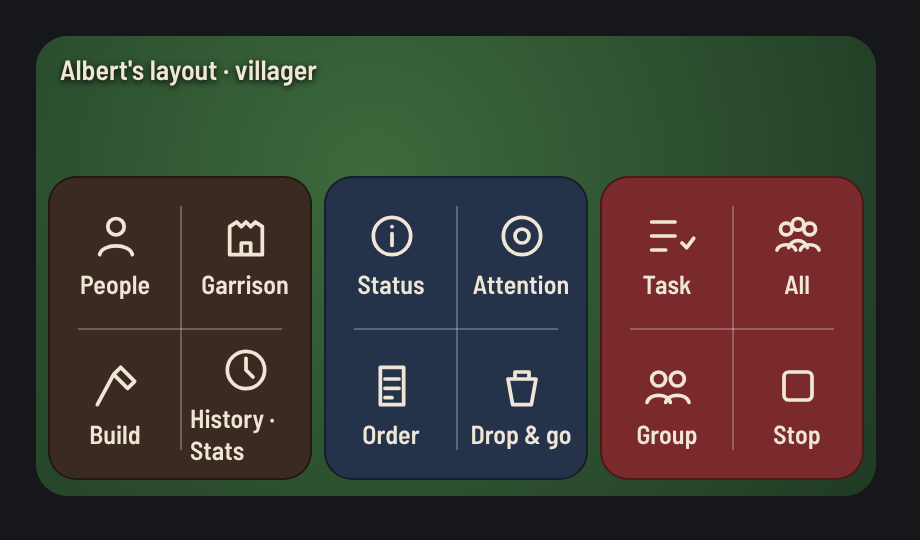
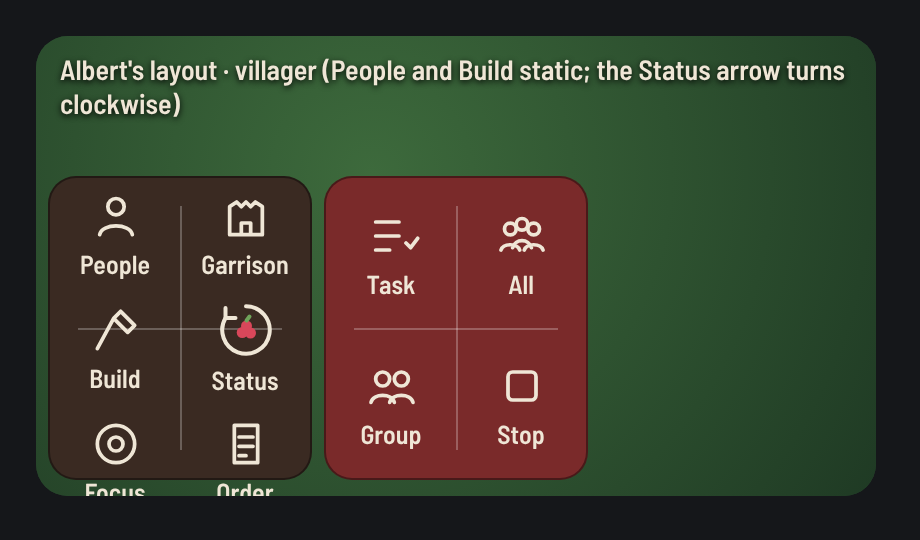
Mock: Albert's villager Controller, v3 (Focus, the status ring)
Claude-Session: https://claude.ai/code/session_017QywRJBcxaNk58v8RT3hvF

diff --git a/mockups/p2c/albert.html b/mockups/p2c/albert.html
@@ -17,4 +17,4 @@
 .info.wide{height:150px}.tabs{display:flex;gap:4px;margin-bottom:6px}.tabs em{font-style:normal;font:600 11px 'Barlow Semi Condensed';padding:2px 6px;border-radius:8px;border:1px solid rgba(255,255,255,.3)}.tabs em.on{border-color:#e6c25a;color:#ffe9a6}
 .seg{display:flex;flex-direction:column;justify-content:center;gap:10px;padding:8px}.sg{display:flex;border:1px solid rgba(255,255,255,.35);border-radius:10px;overflow:hidden}.sg span{flex:1;text-align:center;padding:9px 0;font:600 12px 'Barlow Semi Condensed'}.sg span+span{border-left:1px solid rgba(255,255,255,.25)}.sg span.lit{background:rgba(230,194,90,.25);color:#ffe9a6}
 .set .q:nth-child(3){} 
-.tbd{opacity:.4;border:1px dashed rgba(255,255,255,.4)} body{grid-template-columns:420px}</style></head><body><div class="ph" style="height:230px"><div class="cap">Albert's layout · villager</div><div class="map"></div><div class="ctl"><div class="pads"><div class="pad brown"><i class="v"></i><i class="h"></i><div class="q "><svg viewBox="0 0 24 24" width="28" height="28" fill="none" stroke="currentColor" stroke-width="1.6" stroke-linecap="round" stroke-linejoin="round"><circle cx="12" cy="8" r="3.5"/><path d="M5 20c1-5 13-5 14 0"/></svg><span>People</span></div><div class="q "><svg viewBox="0 0 24 24" width="28" height="28" fill="none" stroke="currentColor" stroke-width="1.6" stroke-linecap="round" stroke-linejoin="round"><path d="M5 20V8l3-2 2 2 2-2 2 2 2-2 3 2v12z M10 20v-5h4v5"/></svg><span>Garrison</span></div><div class="q "><svg viewBox="0 0 24 24" width="28" height="28" fill="none" stroke="currentColor" stroke-width="1.6" stroke-linecap="round" stroke-linejoin="round"><path d="M14 4l6 6-3 3-6-6z M11 7L4 20"/></svg><span>Build</span></div><div class="q "><svg viewBox="0 0 24 24" width="28" height="28" fill="none" stroke="currentColor" stroke-width="1.6" stroke-linecap="round" stroke-linejoin="round"><circle cx="12" cy="12" r="8"/><path d="M12 7v5l3 3"/></svg><span>History · Stats</span></div></div><div class="pad blue"><i class="v"></i><i class="h"></i><div class="q "><svg viewBox="0 0 24 24" width="28" height="28" fill="none" stroke="currentColor" stroke-width="1.6" stroke-linecap="round" stroke-linejoin="round"><circle cx="12" cy="12" r="8"/><path d="M12 11v5M12 8h.01"/></svg><span>Status</span></div><div class="q "><svg viewBox="0 0 24 24" width="28" height="28" fill="none" stroke="currentColor" stroke-width="1.6" stroke-linecap="round" stroke-linejoin="round"><circle cx="12" cy="12" r="8"/><circle cx="12" cy="12" r="3"/></svg><span>Attention</span></div><div class="q "><svg viewBox="0 0 24 24" width="28" height="28" fill="none" stroke="currentColor" stroke-width="1.6" stroke-linecap="round" stroke-linejoin="round"><path d="M7 4h10v16H7z M9 9h6M9 13h6M9 17h3"/></svg><span>Order</span></div><div class="q "><svg viewBox="0 0 24 24" width="28" height="28" fill="none" stroke="currentColor" stroke-width="1.6" stroke-linecap="round" stroke-linejoin="round"><path d="M6 9h12l-2 11H8z M9 9V6h6v3"/></svg><span>Drop &amp; go</span></div></div><div class="pad red"><i class="v"></i><i class="h"></i><div class="q "><svg viewBox="0 0 24 24" width="28" height="28" fill="none" stroke="currentColor" stroke-width="1.6" stroke-linecap="round" stroke-linejoin="round"><path d="M5 6h10M5 12h10M5 18h6M18 15l2 2 3-4"/></svg><span>Task</span></div><div class="q "><svg viewBox="0 0 24 24" width="28" height="28" fill="none" stroke="currentColor" stroke-width="1.6" stroke-linecap="round" stroke-linejoin="round"><circle cx="7" cy="9" r="2.5"/><circle cx="12" cy="7" r="2.5"/><circle cx="17" cy="9" r="2.5"/><path d="M3 18c1-3 7-3 8 0M8 17c1-4 7-4 8 0M13 18c1-3 7-3 8 0"/></svg><span>All</span></div><div class="q "><svg viewBox="0 0 24 24" width="28" height="28" fill="none" stroke="currentColor" stroke-width="1.6" stroke-linecap="round" stroke-linejoin="round"><circle cx="8" cy="9" r="3"/><circle cx="16" cy="9" r="3"/><path d="M3 19c1-4 9-4 10 0M11 19c1-4 9-4 10 0"/></svg><span>Group</span></div><div class="q "><svg viewBox="0 0 24 24" width="28" height="28" fill="none" stroke="currentColor" stroke-width="1.6" stroke-linecap="round" stroke-linejoin="round"><rect x="6" y="6" width="12" height="12" rx="2"/></svg><span>Stop</span></div></div></div></div></div></body></html>
+.tbd{opacity:.4;border:1px dashed rgba(255,255,255,.4)} body{grid-template-columns:420px}</style></head><body><div class="ph" style="height:230px"><div class="cap">Albert's layout · villager (People and Build static; the Status arrow turns clockwise)</div><div class="map"></div><div class="ctl"><div class="pads"><div class="pad brown"><i class="v"></i><i class="h"></i><div class="q "><svg viewBox="0 0 24 24" width="28" height="28" fill="none" stroke="currentColor" stroke-width="1.6" stroke-linecap="round" stroke-linejoin="round"><circle cx="12" cy="8" r="3.5"/><path d="M5 20c1-5 13-5 14 0"/></svg><span>People</span></div><div class="q "><svg viewBox="0 0 24 24" width="28" height="28" fill="none" stroke="currentColor" stroke-width="1.6" stroke-linecap="round" stroke-linejoin="round"><path d="M5 20V8l3-2 2 2 2-2 2 2 2-2 3 2v12z M10 20v-5h4v5"/></svg><span>Garrison</span></div><div class="q "><svg viewBox="0 0 24 24" width="28" height="28" fill="none" stroke="currentColor" stroke-width="1.6" stroke-linecap="round" stroke-linejoin="round"><path d="M14 4l6 6-3 3-6-6z M11 7L4 20"/></svg><span>Build</span></div><div class="q "><svg viewBox="0 0 24 24" width="30" height="30" fill="none" stroke="currentColor" stroke-width="1.6" stroke-linecap="round" stroke-linejoin="round"><path d="M12 2.5a9.5 9.5 0 1 1-8.2 4.7"/><path d="M3.8 3.2v4h4"/><circle cx="10.5" cy="13" r="2.2" fill="#d9475a" stroke="none"/><circle cx="13.8" cy="13.2" r="2.2" fill="#d9475a" stroke="none"/><circle cx="12.2" cy="10.4" r="2.2" fill="#d9475a" stroke="none"/><path d="M12.2 8.2l1.2-1.6" stroke="#6fa35a"/></svg><span>Status</span></div><div class="q "><svg viewBox="0 0 24 24" width="28" height="28" fill="none" stroke="currentColor" stroke-width="1.6" stroke-linecap="round" stroke-linejoin="round"><circle cx="12" cy="12" r="8"/><circle cx="12" cy="12" r="3"/></svg><span>Focus</span></div><div class="q "><svg viewBox="0 0 24 24" width="28" height="28" fill="none" stroke="currentColor" stroke-width="1.6" stroke-linecap="round" stroke-linejoin="round"><path d="M7 4h10v16H7z M9 9h6M9 13h6M9 17h3"/></svg><span>Order</span></div><div class="q "><svg viewBox="0 0 24 24" width="28" height="28" fill="none" stroke="currentColor" stroke-width="1.6" stroke-linecap="round" stroke-linejoin="round"><path d="M6 9h12l-2 11H8z M9 9V6h6v3"/></svg><span>Drop &amp; go</span></div></div><div class="pad red"><i class="v"></i><i class="h"></i><div class="q "><svg viewBox="0 0 24 24" width="28" height="28" fill="none" stroke="currentColor" stroke-width="1.6" stroke-linecap="round" stroke-linejoin="round"><path d="M5 6h10M5 12h10M5 18h6M18 15l2 2 3-4"/></svg><span>Task</span></div><div class="q "><svg viewBox="0 0 24 24" width="28" height="28" fill="none" stroke="currentColor" stroke-width="1.6" stroke-linecap="round" stroke-linejoin="round"><circle cx="7" cy="9" r="2.5"/><circle cx="12" cy="7" r="2.5"/><circle cx="17" cy="9" r="2.5"/><path d="M3 18c1-3 7-3 8 0M8 17c1-4 7-4 8 0M13 18c1-3 7-3 8 0"/></svg><span>All</span></div><div class="q "><svg viewBox="0 0 24 24" width="28" height="28" fill="none" stroke="currentColor" stroke-width="1.6" stroke-linecap="round" stroke-linejoin="round"><circle cx="8" cy="9" r="3"/><circle cx="16" cy="9" r="3"/><path d="M3 19c1-4 9-4 10 0M11 19c1-4 9-4 10 0"/></svg><span>Group</span></div><div class="q "><svg viewBox="0 0 24 24" width="28" height="28" fill="none" stroke="currentColor" stroke-width="1.6" stroke-linecap="round" stroke-linejoin="round"><rect x="6" y="6" width="12" height="12" rx="2"/></svg><span>Stop</span></div></div></div></div></div></body></html>
